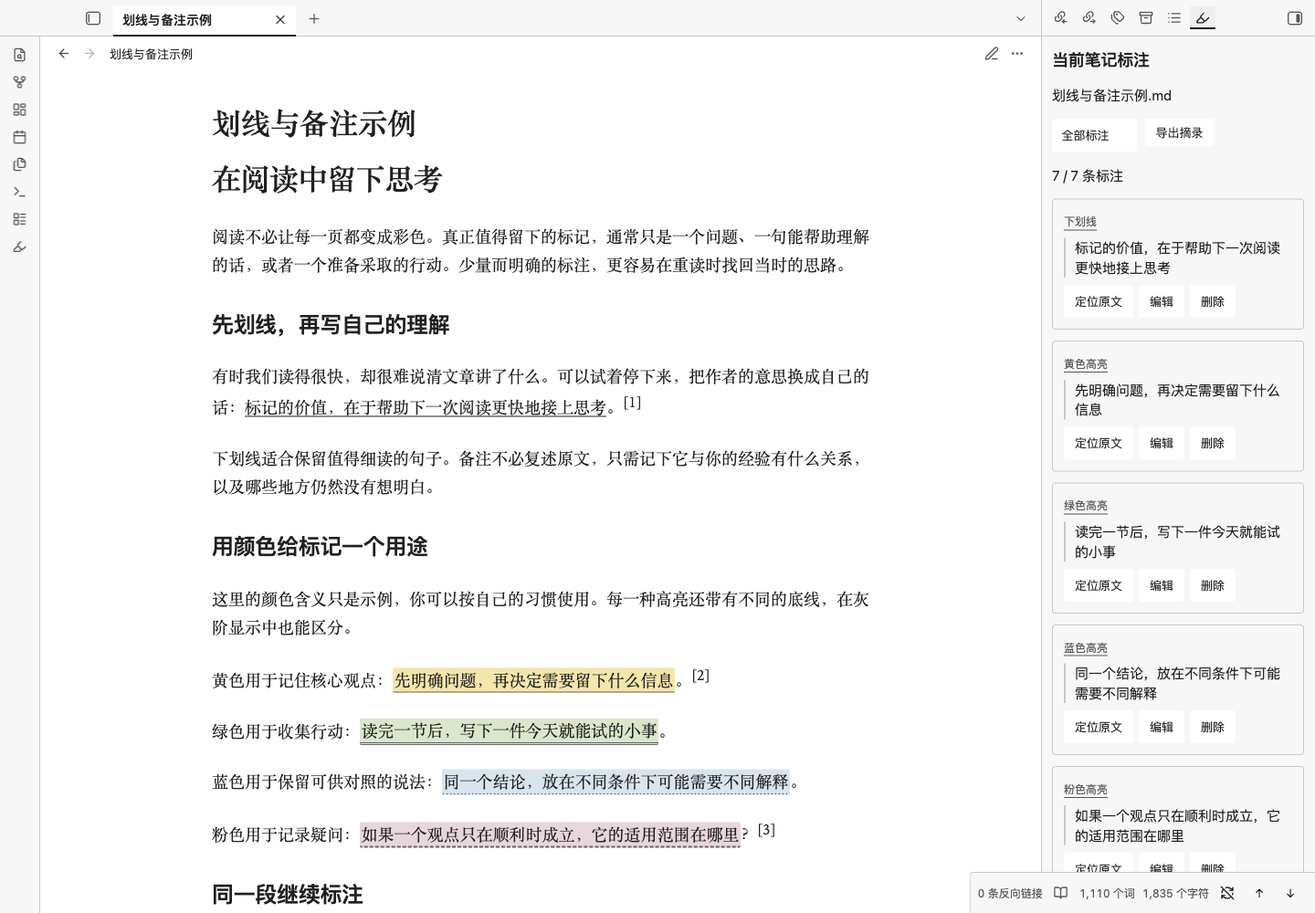
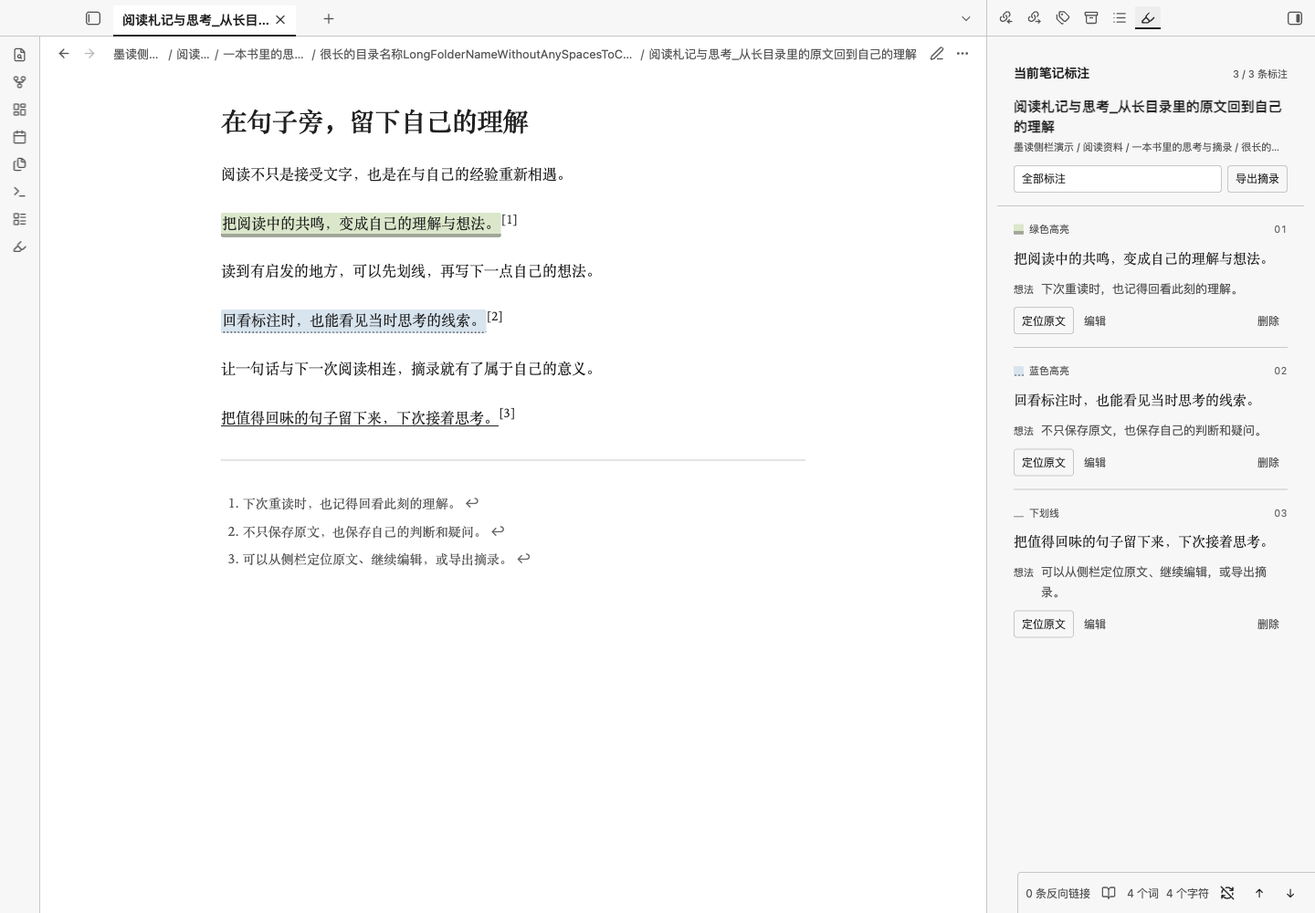
feat: refine annotation sidebar and action buttons

diff --git a/annotations/styles.css b/annotations/styles.css
@@ -109,17 +109,66 @@ body.inkstone-annotations-monochrome {
 .markdown-rendered [data-inkstone-from]:focus-visible { outline: 2px solid currentColor; outline-offset: 2px; }
 .inkstone-remove-annotation { margin-inline-end: auto; }
 .inkstone-annotation-actions { flex-wrap: wrap; }
-.inkstone-annotation-sidebar { padding: 16px; overflow-y: auto; }
-.inkstone-annotation-sidebar h2 { margin-block: 0 12px; font-size: 18px; }
-.inkstone-annotation-sidebar-toolbar { display: flex; gap: 8px; flex-wrap: wrap; margin-block: 12px; }
-.inkstone-annotation-sidebar select { max-width: 100%; min-height: 36px; }
-.inkstone-annotation-card { border: 1px solid var(--background-modifier-border); border-radius: 4px; padding: 12px; margin-block: 12px; overflow-wrap: anywhere; }
-.inkstone-annotation-card p { margin-block: 8px; }
-.inkstone-annotation-card-note { white-space: pre-wrap; color: var(--text-muted); }
-.inkstone-annotation-card-actions { display: flex; gap: 6px; flex-wrap: wrap; margin-top: 8px; }
-.inkstone-annotation-card-actions button { min-height: 36px; }
-.inkstone-annotation-card-text { margin: 8px 0; padding-inline-start: 10px; border-inline-start: 2px solid var(--background-modifier-border); }
-.inkstone-annotation-card-kind { display: inline-block; font-size: 12px; color: var(--text-muted); border-bottom: 1px solid currentColor; }
+.inkstone-annotation-sidebar {
+  display: flex; flex-direction: column; min-width: 0; min-height: 0; height: 100%;
+  padding: 0; overflow: hidden; color: var(--text-normal); font: 13px/1.5 var(--font-interface);
+}
+.inkstone-annotation-sidebar-header,
+.inkstone-annotation-sidebar-list { min-width: 0; box-sizing: border-box; }
+.inkstone-annotation-sidebar-header { flex: 0 0 auto; padding: 18px 18px 14px; border-bottom: 1px solid var(--background-modifier-border); }
+.inkstone-annotation-sidebar-heading { display: flex; align-items: baseline; justify-content: space-between; flex-wrap: wrap; gap: 4px 8px; }
+.inkstone-annotation-sidebar h2 { min-width: 0; margin: 0; font: 600 14px/1.5 var(--font-interface); color: var(--text-normal); }
+.inkstone-annotation-sidebar-count { flex: 0 0 auto; margin: 0; color: var(--text-muted); font-size: 11px; font-variant-numeric: tabular-nums; white-space: nowrap; }
+.inkstone-annotation-sidebar-source { min-width: 0; margin-top: 14px; }
+.inkstone-annotation-sidebar-source-name {
+  display: -webkit-box; -webkit-box-orient: vertical; -webkit-line-clamp: 2; overflow: hidden;
+  margin: 0; color: var(--text-normal); font-size: 15px; font-weight: 550; line-height: 1.5; overflow-wrap: anywhere;
+}
+.inkstone-annotation-sidebar-source-folder { margin: 3px 0 0; overflow: hidden; color: var(--text-muted); font-size: 11px; line-height: 1.5; text-overflow: ellipsis; white-space: nowrap; }
+.inkstone-annotation-sidebar-toolbar { display: flex; align-items: center; flex-wrap: wrap; gap: 6px; min-width: 0; margin-top: 12px; }
+.inkstone-annotation-sidebar .inkstone-annotation-sidebar-toolbar select {
+  flex: 1 1 110px; min-width: 0; max-width: 100%; height: 30px; min-height: 30px;
+  margin: 0; padding: 0 26px 0 8px; border: 1px solid var(--background-modifier-border); border-radius: 4px;
+  color: var(--text-normal); background-color: var(--background-primary); box-shadow: none; font: 12px/1.4 var(--font-interface);
+}
+.inkstone-annotation-sidebar .inkstone-annotation-sidebar-toolbar button,
+.inkstone-annotation-sidebar .inkstone-annotation-card-actions button {
+  flex: 0 0 auto; min-height: 30px; margin: 0; padding: 3px 8px;
+  border: 1px solid transparent; border-radius: 4px; background: transparent;
+  color: var(--text-muted); box-shadow: none; font: 12px/1.4 var(--font-interface); white-space: nowrap; cursor: pointer;
+}
+.inkstone-annotation-sidebar .inkstone-annotation-sidebar-toolbar button { border-color: var(--background-modifier-border); color: var(--text-normal); }
+.inkstone-annotation-sidebar .inkstone-annotation-sidebar-toolbar button:hover,
+.inkstone-annotation-sidebar .inkstone-annotation-card-actions button:hover { background: var(--background-modifier-hover); color: var(--text-normal); }
+.inkstone-annotation-sidebar :is(.inkstone-annotation-sidebar-toolbar, .inkstone-annotation-card-actions) :is(button, select):focus-visible { outline: 2px solid var(--text-normal); outline-offset: 2px; }
+.inkstone-annotation-sidebar :is(.inkstone-annotation-sidebar-toolbar, .inkstone-annotation-card-actions) :is(button, select):disabled { color: var(--text-faint); cursor: default; }
+.inkstone-annotation-sidebar-list { flex: 1 1 auto; min-height: 0; padding: 0 18px 16px; overflow-x: hidden; overflow-y: auto; scrollbar-gutter: stable; }
+.inkstone-annotation-card { min-width: 0; margin: 0; padding: 17px 0 14px; border: 0; border-bottom: 1px solid var(--background-modifier-border); border-radius: 0; background: transparent; box-shadow: none; overflow-wrap: anywhere; }
+.inkstone-annotation-card:last-child { border-bottom: 0; }
+.inkstone-annotation-card-meta { display: flex; align-items: center; justify-content: space-between; gap: 8px; min-width: 0; }
+.inkstone-annotation-card-kind { display: inline-flex; align-items: center; gap: 6px; min-width: 0; color: var(--text-muted); font: 11px/1.5 var(--font-interface); }
+.inkstone-annotation-card-swatch { display: inline-block; flex: 0 0 11px; width: 11px; height: 11px; border-radius: 1px; }
+.inkstone-annotation-kind-underline .inkstone-annotation-card-swatch { height: 9px; border-bottom: 1px solid currentColor; background: transparent; }
+.inkstone-annotation-card-index { flex: 0 0 auto; color: var(--text-faint); font: 11px/1.5 var(--font-interface); font-variant-numeric: tabular-nums; letter-spacing: 0.04em; }
+.inkstone-annotation-sidebar .inkstone-annotation-card-text { margin: 10px 0 0; padding: 0; border: 0; background: transparent; color: var(--text-normal); font: 400 15px/1.7 var(--font-text, var(--font-interface)); white-space: pre-wrap; overflow-wrap: anywhere; }
+.inkstone-annotation-card-thought { display: grid; grid-template-columns: auto minmax(0, 1fr); align-items: baseline; gap: 8px; min-width: 0; margin-top: 10px; }
+.inkstone-annotation-card-note-label { color: var(--text-muted); font: 11px/1.65 var(--font-interface); white-space: nowrap; }
+.inkstone-annotation-card-note { min-width: 0; margin: 0; color: var(--text-muted); font: 13px/1.65 var(--font-interface); white-space: pre-wrap; overflow-wrap: anywhere; }
+.inkstone-annotation-card-actions { display: flex; align-items: center; flex-wrap: wrap; gap: 2px; margin-top: 10px; }
+.inkstone-annotation-sidebar .inkstone-annotation-card-actions button { height: 30px; transition: none; animation: none; }
+.inkstone-annotation-sidebar .inkstone-annotation-card-actions button:first-child { padding-inline: 8px; border-color: var(--background-modifier-border); color: var(--text-normal); }
+.inkstone-annotation-sidebar .inkstone-annotation-card-actions .inkstone-annotation-card-delete { margin-inline-start: auto; color: var(--text-muted); }
+.inkstone-annotation-sidebar .inkstone-annotation-card-actions .inkstone-annotation-card-delete:is(:hover, :focus-visible):not(:disabled) { color: var(--text-error); }
+.inkstone-annotation-sidebar .inkstone-annotation-card-actions button:disabled,
+.inkstone-annotation-sidebar .inkstone-annotation-card-actions button:disabled:hover { background: transparent; color: var(--text-faint); opacity: 1; cursor: default; }
+.inkstone-annotation-sidebar-empty { margin: 0; padding: 20px 0; color: var(--text-muted); font: 13px/1.75 var(--font-interface); overflow-wrap: anywhere; }
+@media (pointer: coarse) {
+  .inkstone-annotation-sidebar .inkstone-annotation-sidebar-toolbar select,
+  .inkstone-annotation-sidebar .inkstone-annotation-sidebar-toolbar button,
+  .inkstone-annotation-sidebar .inkstone-annotation-card-actions button { min-height: 44px; }
+  .inkstone-annotation-sidebar .inkstone-annotation-sidebar-toolbar button,
+  .inkstone-annotation-sidebar .inkstone-annotation-card-actions button { min-width: 44px; }
+}
 .inkstone-selection-toolbar {
   position: fixed; z-index: 90; padding: 4px; max-width: calc(100vw - 16px);
   border: 1px solid var(--background-modifier-border); border-radius: 10px;

diff --git a/annotations/src/ui.css b/annotations/src/ui.css
@@ -47,17 +47,66 @@
 .markdown-rendered [data-inkstone-from]:focus-visible { outline: 2px solid currentColor; outline-offset: 2px; }
 .inkstone-remove-annotation { margin-inline-end: auto; }
 .inkstone-annotation-actions { flex-wrap: wrap; }
-.inkstone-annotation-sidebar { padding: 16px; overflow-y: auto; }
-.inkstone-annotation-sidebar h2 { margin-block: 0 12px; font-size: 18px; }
-.inkstone-annotation-sidebar-toolbar { display: flex; gap: 8px; flex-wrap: wrap; margin-block: 12px; }
-.inkstone-annotation-sidebar select { max-width: 100%; min-height: 36px; }
-.inkstone-annotation-card { border: 1px solid var(--background-modifier-border); border-radius: 4px; padding: 12px; margin-block: 12px; overflow-wrap: anywhere; }
-.inkstone-annotation-card p { margin-block: 8px; }
-.inkstone-annotation-card-note { white-space: pre-wrap; color: var(--text-muted); }
-.inkstone-annotation-card-actions { display: flex; gap: 6px; flex-wrap: wrap; margin-top: 8px; }
-.inkstone-annotation-card-actions button { min-height: 36px; }
-.inkstone-annotation-card-text { margin: 8px 0; padding-inline-start: 10px; border-inline-start: 2px solid var(--background-modifier-border); }
-.inkstone-annotation-card-kind { display: inline-block; font-size: 12px; color: var(--text-muted); border-bottom: 1px solid currentColor; }
+.inkstone-annotation-sidebar {
+  display: flex; flex-direction: column; min-width: 0; min-height: 0; height: 100%;
+  padding: 0; overflow: hidden; color: var(--text-normal); font: 13px/1.5 var(--font-interface);
+}
+.inkstone-annotation-sidebar-header,
+.inkstone-annotation-sidebar-list { min-width: 0; box-sizing: border-box; }
+.inkstone-annotation-sidebar-header { flex: 0 0 auto; padding: 18px 18px 14px; border-bottom: 1px solid var(--background-modifier-border); }
+.inkstone-annotation-sidebar-heading { display: flex; align-items: baseline; justify-content: space-between; flex-wrap: wrap; gap: 4px 8px; }
+.inkstone-annotation-sidebar h2 { min-width: 0; margin: 0; font: 600 14px/1.5 var(--font-interface); color: var(--text-normal); }
+.inkstone-annotation-sidebar-count { flex: 0 0 auto; margin: 0; color: var(--text-muted); font-size: 11px; font-variant-numeric: tabular-nums; white-space: nowrap; }
+.inkstone-annotation-sidebar-source { min-width: 0; margin-top: 14px; }
+.inkstone-annotation-sidebar-source-name {
+  display: -webkit-box; -webkit-box-orient: vertical; -webkit-line-clamp: 2; overflow: hidden;
+  margin: 0; color: var(--text-normal); font-size: 15px; font-weight: 550; line-height: 1.5; overflow-wrap: anywhere;
+}
+.inkstone-annotation-sidebar-source-folder { margin: 3px 0 0; overflow: hidden; color: var(--text-muted); font-size: 11px; line-height: 1.5; text-overflow: ellipsis; white-space: nowrap; }
+.inkstone-annotation-sidebar-toolbar { display: flex; align-items: center; flex-wrap: wrap; gap: 6px; min-width: 0; margin-top: 12px; }
+.inkstone-annotation-sidebar .inkstone-annotation-sidebar-toolbar select {
+  flex: 1 1 110px; min-width: 0; max-width: 100%; height: 30px; min-height: 30px;
+  margin: 0; padding: 0 26px 0 8px; border: 1px solid var(--background-modifier-border); border-radius: 4px;
+  color: var(--text-normal); background-color: var(--background-primary); box-shadow: none; font: 12px/1.4 var(--font-interface);
+}
+.inkstone-annotation-sidebar .inkstone-annotation-sidebar-toolbar button,
+.inkstone-annotation-sidebar .inkstone-annotation-card-actions button {
+  flex: 0 0 auto; min-height: 30px; margin: 0; padding: 3px 8px;
+  border: 1px solid transparent; border-radius: 4px; background: transparent;
+  color: var(--text-muted); box-shadow: none; font: 12px/1.4 var(--font-interface); white-space: nowrap; cursor: pointer;
+}
+.inkstone-annotation-sidebar .inkstone-annotation-sidebar-toolbar button { border-color: var(--background-modifier-border); color: var(--text-normal); }
+.inkstone-annotation-sidebar .inkstone-annotation-sidebar-toolbar button:hover,
+.inkstone-annotation-sidebar .inkstone-annotation-card-actions button:hover { background: var(--background-modifier-hover); color: var(--text-normal); }
+.inkstone-annotation-sidebar :is(.inkstone-annotation-sidebar-toolbar, .inkstone-annotation-card-actions) :is(button, select):focus-visible { outline: 2px solid var(--text-normal); outline-offset: 2px; }
+.inkstone-annotation-sidebar :is(.inkstone-annotation-sidebar-toolbar, .inkstone-annotation-card-actions) :is(button, select):disabled { color: var(--text-faint); cursor: default; }
+.inkstone-annotation-sidebar-list { flex: 1 1 auto; min-height: 0; padding: 0 18px 16px; overflow-x: hidden; overflow-y: auto; scrollbar-gutter: stable; }
+.inkstone-annotation-card { min-width: 0; margin: 0; padding: 17px 0 14px; border: 0; border-bottom: 1px solid var(--background-modifier-border); border-radius: 0; background: transparent; box-shadow: none; overflow-wrap: anywhere; }
+.inkstone-annotation-card:last-child { border-bottom: 0; }
+.inkstone-annotation-card-meta { display: flex; align-items: center; justify-content: space-between; gap: 8px; min-width: 0; }
+.inkstone-annotation-card-kind { display: inline-flex; align-items: center; gap: 6px; min-width: 0; color: var(--text-muted); font: 11px/1.5 var(--font-interface); }
+.inkstone-annotation-card-swatch { display: inline-block; flex: 0 0 11px; width: 11px; height: 11px; border-radius: 1px; }
+.inkstone-annotation-kind-underline .inkstone-annotation-card-swatch { height: 9px; border-bottom: 1px solid currentColor; background: transparent; }
+.inkstone-annotation-card-index { flex: 0 0 auto; color: var(--text-faint); font: 11px/1.5 var(--font-interface); font-variant-numeric: tabular-nums; letter-spacing: 0.04em; }
+.inkstone-annotation-sidebar .inkstone-annotation-card-text { margin: 10px 0 0; padding: 0; border: 0; background: transparent; color: var(--text-normal); font: 400 15px/1.7 var(--font-text, var(--font-interface)); white-space: pre-wrap; overflow-wrap: anywhere; }
+.inkstone-annotation-card-thought { display: grid; grid-template-columns: auto minmax(0, 1fr); align-items: baseline; gap: 8px; min-width: 0; margin-top: 10px; }
+.inkstone-annotation-card-note-label { color: var(--text-muted); font: 11px/1.65 var(--font-interface); white-space: nowrap; }
+.inkstone-annotation-card-note { min-width: 0; margin: 0; color: var(--text-muted); font: 13px/1.65 var(--font-interface); white-space: pre-wrap; overflow-wrap: anywhere; }
+.inkstone-annotation-card-actions { display: flex; align-items: center; flex-wrap: wrap; gap: 2px; margin-top: 10px; }
+.inkstone-annotation-sidebar .inkstone-annotation-card-actions button { height: 30px; transition: none; animation: none; }
+.inkstone-annotation-sidebar .inkstone-annotation-card-actions button:first-child { padding-inline: 8px; border-color: var(--background-modifier-border); color: var(--text-normal); }
+.inkstone-annotation-sidebar .inkstone-annotation-card-actions .inkstone-annotation-card-delete { margin-inline-start: auto; color: var(--text-muted); }
+.inkstone-annotation-sidebar .inkstone-annotation-card-actions .inkstone-annotation-card-delete:is(:hover, :focus-visible):not(:disabled) { color: var(--text-error); }
+.inkstone-annotation-sidebar .inkstone-annotation-card-actions button:disabled,
+.inkstone-annotation-sidebar .inkstone-annotation-card-actions button:disabled:hover { background: transparent; color: var(--text-faint); opacity: 1; cursor: default; }
+.inkstone-annotation-sidebar-empty { margin: 0; padding: 20px 0; color: var(--text-muted); font: 13px/1.75 var(--font-interface); overflow-wrap: anywhere; }
+@media (pointer: coarse) {
+  .inkstone-annotation-sidebar .inkstone-annotation-sidebar-toolbar select,
+  .inkstone-annotation-sidebar .inkstone-annotation-sidebar-toolbar button,
+  .inkstone-annotation-sidebar .inkstone-annotation-card-actions button { min-height: 44px; }
+  .inkstone-annotation-sidebar .inkstone-annotation-sidebar-toolbar button,
+  .inkstone-annotation-sidebar .inkstone-annotation-card-actions button { min-width: 44px; }
+}
 .inkstone-selection-toolbar {
   position: fixed; z-index: 90; padding: 4px; max-width: calc(100vw - 16px);
   border: 1px solid var(--background-modifier-border); border-radius: 10px;

diff --git a/annotations/main.js b/annotations/main.js
@@ -1,4 +1,4 @@
-/* Inkstone Annotations 1.1.4. MIT License. Generated by build.mjs. */
+/* Inkstone Annotations 1.1.5. MIT License. Generated by build.mjs. */
 const annotationCore = (() => { const module = { exports: {} };
 'use strict';
 
@@ -710,6 +710,9 @@ function createSidebarClass(plugin) {
       this.events = [];
       this.opened = false;
       this.nonMarkdownActive = false;
+      this.listEl = null;
+      this.renderedFilePath = null;
+      this.renderedFilter = null;
     }
 
     getViewType() { return VIEW_TYPE; }
@@ -749,6 +752,9 @@ function createSidebarClass(plugin) {
       this.detachEvents();
       this.contentEl.replaceChildren();
       this.contentEl.classList.remove('inkstone-annotation-sidebar');
+      this.listEl = null;
+      this.renderedFilePath = null;
+      this.renderedFilter = null;
     }
 
     async perform(action) {
@@ -763,7 +769,11 @@ function createSidebarClass(plugin) {
       const filtered = records.filter(record => this.filter === 'all' ||
         (this.filter === 'underline' ? record.kind === 'underline' : record.kind === 'highlight' && record.color === this.filter));
       const content = this.contentEl;
+      const filePath = context?.filePath || null;
+      const scrollTop = this.renderedFilePath === filePath && this.renderedFilter === this.filter ? this.listEl?.scrollTop || 0 : 0;
       content.replaceChildren();
+      this.renderedFilePath = filePath;
+      this.renderedFilter = this.filter;
       const add = (parent, tag, text, className) => {
         const element = content.ownerDocument.createElement(tag);
         if (text !== undefined) element.textContent = text;
@@ -771,9 +781,24 @@ function createSidebarClass(plugin) {
         parent.append(element);
         return element;
       };
-      add(content, 'h2', '当前笔记标注');
-      add(content, 'p', context ? context.filePath : '打开一篇 Markdown 笔记后查看标注。', 'inkstone-annotation-sidebar-source');
-      const toolbar = add(content, 'div', undefined, 'inkstone-annotation-sidebar-toolbar');
+      const header = add(content, 'header', undefined, 'inkstone-annotation-sidebar-header');
+      const heading = add(header, 'div', undefined, 'inkstone-annotation-sidebar-heading');
+      add(heading, 'h2', '当前笔记标注');
+      const status = add(heading, 'p', `${filtered.length} / ${records.length} 条标注`, 'inkstone-annotation-sidebar-count');
+      status.setAttribute('aria-live', 'polite');
+      const source = add(header, 'div', undefined, 'inkstone-annotation-sidebar-source');
+      if (context) {
+        const parts = context.filePath.split('/');
+        const file = parts.pop();
+        source.setAttribute('title', context.filePath);
+        source.setAttribute('aria-label', `当前笔记：${context.filePath}`);
+        add(source, 'p', file.replace(/\.md$/i, '') || file, 'inkstone-annotation-sidebar-source-name');
+        add(source, 'p', parts.join(' / ') || '笔记库根目录', 'inkstone-annotation-sidebar-source-folder');
+      } else {
+        add(source, 'p', '选择一篇笔记', 'inkstone-annotation-sidebar-source-name');
+        add(source, 'p', '打开一篇 Markdown 笔记后查看标注。', 'inkstone-annotation-sidebar-source-folder');
+      }
+      const toolbar = add(header, 'div', undefined, 'inkstone-annotation-sidebar-toolbar');
       const filter = add(toolbar, 'select');
       filter.setAttribute('aria-label', '筛选标注颜色');
       for (const [value, label] of FILTERS) {
@@ -787,27 +812,41 @@ function createSidebarClass(plugin) {
       exportButton.setAttribute('type', 'button');
       exportButton.disabled = records.length === 0;
       exportButton.addEventListener('click', () => this.perform(() => plugin.exportAnnotations()));
-      const status = add(content, 'p', `${filtered.length} / ${records.length} 条标注`, 'inkstone-annotation-sidebar-count');
-      status.setAttribute('aria-live', 'polite');
+      const list = add(content, 'div', undefined, 'inkstone-annotation-sidebar-list');
+      this.listEl = list;
       if (!context || filtered.length === 0) {
-        add(content, 'p', !context ? '暂无当前笔记。' : records.length ? '没有符合筛选条件的标注。' : '当前笔记暂无标注。', 'inkstone-annotation-sidebar-empty');
+        add(list, 'p', !context ? '暂无当前笔记。' : records.length ? '没有符合筛选条件的标注。' : '当前笔记暂无标注。', 'inkstone-annotation-sidebar-empty');
         return;
       }
-      const list = add(content, 'div', undefined, 'inkstone-annotation-sidebar-list');
       for (const record of filtered) {
         const card = add(list, 'article', undefined, 'inkstone-annotation-card');
+        card.setAttribute('data-kind', record.kind);
+        card.setAttribute('data-color', record.color || '');
+        const meta = add(card, 'div', undefined, 'inkstone-annotation-card-meta');
         const label = record.kind === 'underline' ? '下划线' : FILTERS.find(([value]) => value === record.color)?.[1] || '高亮';
-        const badge = add(card, 'span', label, `inkstone-annotation-card-kind inkstone-annotation-kind-${record.kind === 'underline' ? 'underline' : record.color}`);
+        const badge = add(meta, 'span', undefined, `inkstone-annotation-card-kind inkstone-annotation-kind-${record.kind === 'underline' ? 'underline' : record.color || 'default'}`);
         badge.setAttribute('aria-label', `标注样式：${label}`);
+        const swatch = add(badge, 'span', undefined, `inkstone-annotation-card-swatch inkstone-swatch-${record.kind === 'underline' ? 'underline' : record.color || 'default'}`);
+        swatch.setAttribute('aria-hidden', 'true');
+        add(badge, 'span', label);
+        const ordinal = records.indexOf(record) + 1;
+        const index = add(meta, 'span', String(ordinal).padStart(2, '0'), 'inkstone-annotation-card-index');
+        index.setAttribute('aria-label', `第 ${ordinal} 条标注`);
         add(card, 'blockquote', record.text, 'inkstone-annotation-card-text');
-        if (record.note) add(card, 'p', record.note, 'inkstone-annotation-card-note');
+        if (record.note) {
+          const thought = add(card, 'div', undefined, 'inkstone-annotation-card-thought');
+          add(thought, 'span', '想法', 'inkstone-annotation-card-note-label');
+          add(thought, 'p', record.note, 'inkstone-annotation-card-note');
+        }
         const actions = add(card, 'div', undefined, 'inkstone-annotation-card-actions');
         for (const [title, method] of [['定位原文', 'revealAnnotation'], ['编辑', 'editAnnotation'], ['删除', 'removeAnnotation']]) {
           const action = add(actions, 'button', title);
           action.setAttribute('type', 'button');
+          if (method === 'removeAnnotation') action.className = 'inkstone-annotation-card-delete';
           action.addEventListener('click', () => this.perform(() => plugin[method](record.from, context)));
         }
       }
+      list.scrollTop = scrollTop;
     }
   };
 }

diff --git a/theme.css b/theme.css
@@ -1,5 +1,5 @@
 /*
- * Inkstone / 墨读 1.3.4 — a quiet, monochrome reading theme.
+ * Inkstone / 墨读 1.3.5 — a quiet, monochrome reading theme.
  * Light mode only. Uses Obsidian's native font overrides and readable-line-width setting.
  * No network resources, scripts, or plugin dependencies. License: MIT.
  */

diff --git a/INSTALL.md b/INSTALL.md
@@ -1,6 +1,6 @@
 # 安装与更新 Inkstone 墨读
 
-Inkstone **主题 1.3.4** 是纯 CSS，**标注插件 1.1.4** 为可选组件。主题可单独安装；标注、侧栏、摘录导出、快捷条和按屏翻页需要启用插件。最低 Obsidian 版本为 **1.10.6**。当前通过 GitHub Release 或本仓库安装，尚未上架 Obsidian 社区目录。
+Inkstone **主题 1.3.5** 是纯 CSS，**标注插件 1.1.5** 为可选组件。主题可单独安装；标注、侧栏、摘录导出、快捷条和按屏翻页需要启用插件。最低 Obsidian 版本为 **1.10.6**。当前通过 GitHub Release 或本仓库安装，尚未上架 Obsidian 社区目录。
 
 操作前关闭目标笔记库或退出 Obsidian，避免应用退出时覆盖刚更新的文件。请先用 Obsidian 打开过该笔记库，使配置目录存在。以下路径都指**笔记库目录**。
 
@@ -14,7 +14,7 @@ Inkstone **主题 1.3.4** 是纯 CSS，**标注插件 1.1.4** 为可选组件。
 
 ### 1. 获取文件
 
-下载 [最新 Release](https://github.com/bufan1024/obsidian-inkstone/releases/latest) 中的主题与标注合集，本版本文件名为 `Inkstone-Reading-Kit-1.3.4.zip`。解压后进入其中含有 `scripts/` 的目录。
+下载 [最新 Release](https://github.com/bufan1024/obsidian-inkstone/releases/latest) 中的主题与标注合集，本版本文件名为 `Inkstone-Reading-Kit-1.3.5.zip`。解压后进入其中含有 `scripts/` 的目录。
 
 也可以克隆源码：
 
@@ -130,7 +130,7 @@ python3 scripts/install.py --vault "/你的笔记库路径" --update --theme-onl
 - 点击选区快捷条的「写想法」，应在原文旁的小浮层中显示原文预览、多行输入框与四色／下划线样式选择。新普通选区默认下划线，已有标注默认当前样式，都可在保存前修改。切换样式不丢失输入文字，也不提前写入笔记；点击「保存想法」或按 `Cmd+Enter` / `Ctrl+Enter` 后，样式和脚注备注一起生效。「取消」不写入任何样式或备注。命令「墨读：标注与备注」「墨读：添加备注」及右键综合编辑入口仍打开完整面板。
 - 点击现有高亮或下划线，应在原文旁弹出小菜单，显示当前样式；首层点颜色或下划线会立即修改。进入「写想法／编辑想法」后，样式和备注则在点击保存后一起生效；未改样式时沿用原有标记。「删除标注」保留原文。点击外部、按 `Esc` 或滚动可收起。侧栏「编辑」和右键编辑入口仍打开完整面板。
 - 实时预览在光标离开标注后显示实际标记，进入范围时显示源码；源码模式保持原样。
-- 执行「墨读：打开标注侧栏」可筛选、定位、编辑或删除当前笔记标注；「导出当前笔记摘录」应新建文件，并带有来源链接。
+- 执行「墨读：打开标注侧栏」，顶部应显示当前笔记名与标注数量，列表可独立滚动，筛选和导出入口保持可见。仍可定位、编辑或删除标注；「导出当前笔记摘录」应新建文件，并带有来源链接。
 - 「墨水屏显示」将四色变为灰底与不同线型；插件设置提供行高、行宽预设和快捷条开关。
 - 「墨读：上一屏／下一屏」或状态栏 ↑／↓ 可按视口翻页，命令没有默认快捷键。
 

diff --git a/README.md b/README.md
@@ -4,7 +4,7 @@
 
 **[下载主题＋标注合集](https://github.com/bufan1024/obsidian-inkstone/releases/latest)** · **[安装与更新](INSTALL.md)** · **[标注使用说明](annotations/README.md)**
 
-当前版本：**主题 1.3.4／标注插件 1.1.4**。白底、深灰正文，默认 1.75 倍行高、40em 行宽；字体和字号跟随 Obsidian「设置 → 外观」。只想阅读时，可以单独安装纯 CSS 主题。
+当前版本：**主题 1.3.5／标注插件 1.1.5**。白底、深灰正文，默认 1.75 倍行高、40em 行宽；字体和字号跟随 Obsidian「设置 → 外观」。只想阅读时，可以单独安装纯 CSS 主题。
 
 ## 看两段演示就能开始
 
@@ -24,7 +24,7 @@
 
 ![打开当前笔记标注侧栏、筛选颜色并导出摘录](assets/review-export.gif)
 
-1. 从快捷条「更多 → 打开标注侧栏」，或执行「墨读：打开标注侧栏」，查看、筛选、定位当前笔记的标注。
+1. 从快捷条「更多 → 打开标注侧栏」，或执行「墨读：打开标注侧栏」。侧栏顶部显示当前笔记名与标注数量，摘录和想法分层排列；滚动列表时，筛选和导出入口保持可见。
 2. 点击「导出摘录」，在原笔记目录新建带来源链接的 Markdown。导出包含全部标注和备注，不受筛选影响；重名时加编号，不覆盖已有文件。
 
 动画无法播放时，查看[侧栏截图](preview-workspace.png)和[侧栏与导出完整说明](annotations/README.md#当前笔记侧栏与摘录导出)。

diff --git a/annotations/README.md b/annotations/README.md
@@ -1,6 +1,6 @@
 # 墨读标注 · Inkstone Annotations
 
-为 Obsidian 笔记提供下划线、四色高亮、脚注备注、当前笔记标注侧栏与摘录导出。插件版本为 **1.1.4**，配套 Inkstone 主题版本为 **1.3.4**，最低 Obsidian 版本为 **1.10.6**。
+为 Obsidian 笔记提供下划线、四色高亮、脚注备注、当前笔记标注侧栏与摘录导出。插件版本为 **1.1.5**，配套 Inkstone 主题版本为 **1.3.5**，最低 Obsidian 版本为 **1.10.6**。
 
 标注直接保存在当前 Markdown 中，兼容旧版 Inkstone 标记。插件只使用本地 Obsidian API，不调用网络，不需要账户或其他插件；实时预览使用 Obsidian 自带的 CodeMirror，用户无需安装依赖。Inkstone 主题仍是纯 CSS，可独立使用。
 
@@ -56,6 +56,8 @@
 ## 当前笔记侧栏与摘录导出
 
 执行「墨读：打开标注侧栏」，或点击快捷条的「更多 → 打开标注侧栏」。侧栏仅列出当前 Markdown 笔记的标注，显示摘录、颜色或下划线样式及备注，并随笔记修改刷新。
+
+顶部显示当前笔记名、所在目录和标注数量；悬停路径可查看完整位置。摘录与想法分层显示，定位、编辑和删除按钮始终可见。列表可单独滚动，顶部的筛选与导出入口保持可见。
 
 - 使用顶部筛选框查看某一种颜色或下划线。
 - 「定位原文」跳到标记位置；「编辑」打开完整编辑面板；「删除」移除标注并保留原文。

diff --git a/tests/native/README.md b/tests/native/README.md
@@ -31,4 +31,6 @@ INKSTONE_CDP=http://127.0.0.1:19227 node tests/native/verify-upgrade.cjs
 
 覆盖连续标注、实体与 emoji、已有标注小菜单（直接改色、删除、浮层内想法、键盘与过期快照保护）、Live Preview 与源码切换、侧栏、摘录导出、字号和阅读预设、按屏翻页，以及选区「写想法」的小浮层、取消/空白零写入、三种模式下的选区准确性和单次事务，想法浮层内的样式草稿与保存后一起生效，以及新版工具条的文字动作、色点、延迟事件、备注焦点、窄屏避让和键盘操作。复制用例只 mock 专用测试页的 Clipboard API，不读写真实系统剪贴板。输出逐项 PASS/FAIL，任何失败都会返回非零退出状态。
 
+侧栏另有 `sidebar-responsive-layout`、`sidebar-empty-states`、`sidebar-refresh-scroll-and-stale-actions` 三组回归，覆盖 240／280／360／480px 宽度下的长路径与内容、固定顶部与列表滚动、原生按钮样式与焦点、粗指针尺寸、三种空态、刷新和删除后保留滚动位置，以及旧按钮的快照保护。
+
 这些检查使用桌面原生应用。390px 布局和合成触控事件不代表手机原生应用或实体墨水屏实测。测试中使用的 Obsidian 内部接口仅用于验收，不打包进插件。
